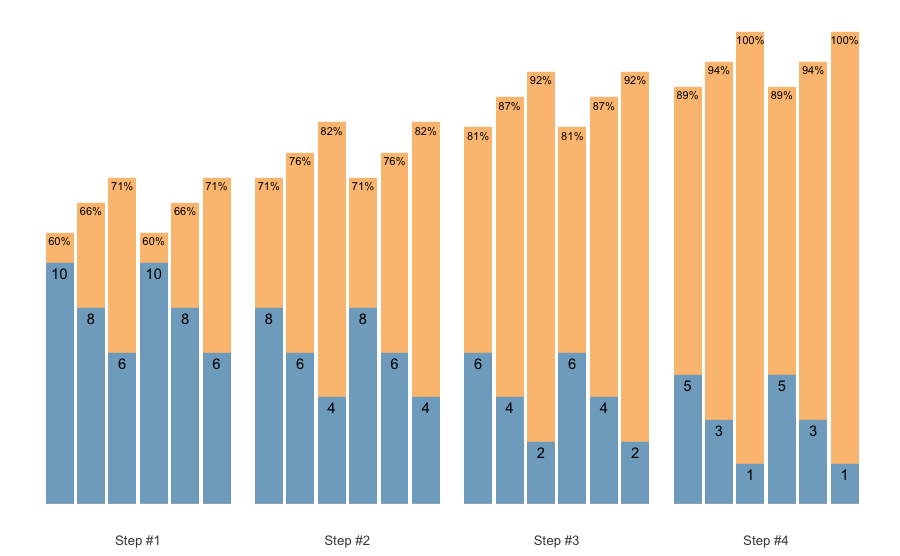
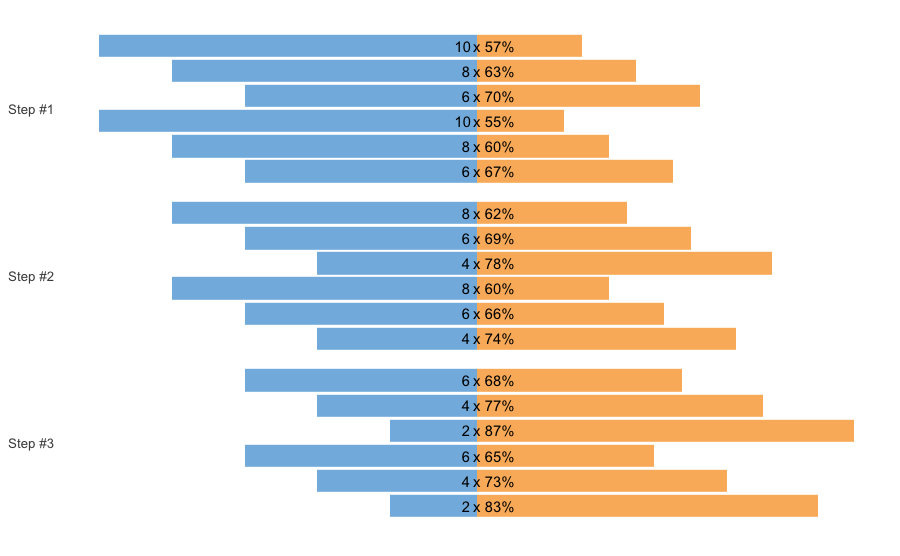
New plot types

diff --git a/README.md b/README.md
@@ -577,6 +577,20 @@ plot(scheme)
 
 <img src="man/figures/README-unnamed-chunk-24-1.png" width="80%" style="display: block; margin: auto;" />
 
+`{STMr}` implements two additional scheme visualizations:
+
+``` r
+plot(scheme, type = "vertical")
+```
+
+<img src="man/figures/README-unnamed-chunk-25-1.png" width="80%" style="display: block; margin: auto;" />
+
+``` r
+plot(scheme, type = "fraction")
+```
+
+<img src="man/figures/README-unnamed-chunk-26-1.png" width="80%" style="display: block; margin: auto;" />
+
 In the next example I will utilize different progression table and
 progression steps, as well as Linear/Brzycki’s Reps-Max model with a
 custom model parameter value:
@@ -601,7 +615,7 @@ scheme <- scheme_wave(
 plot(scheme)
 ```
 
-<img src="man/figures/README-unnamed-chunk-25-1.png" width="80%" style="display: block; margin: auto;" />
+<img src="man/figures/README-unnamed-chunk-27-1.png" width="80%" style="display: block; margin: auto;" />
 
 This scheme would be pretty impossible to do, since I am using the
 *intensive* variant of the Deducted Intensity progression, but in this
@@ -619,7 +633,7 @@ plot_progression_table(
 )
 ```
 
-<img src="man/figures/README-unnamed-chunk-26-1.png" width="80%" style="display: block; margin: auto;" />
+<img src="man/figures/README-unnamed-chunk-28-1.png" width="80%" style="display: block; margin: auto;" />
 
 ``` r
 plot_progression_table(
@@ -633,7 +647,7 @@ plot_progression_table(
 )
 ```
 
-<img src="man/figures/README-unnamed-chunk-27-1.png" width="80%" style="display: block; margin: auto;" />
+<img src="man/figures/README-unnamed-chunk-29-1.png" width="80%" style="display: block; margin: auto;" />
 
 To make the Waves Loading scheme in the above example doable, I can
 apply additional adjustments to make sets easier. Since I am using
@@ -657,7 +671,7 @@ scheme <- scheme_wave(
 plot(scheme)
 ```
 
-<img src="man/figures/README-unnamed-chunk-28-1.png" width="80%" style="display: block; margin: auto;" />
+<img src="man/figures/README-unnamed-chunk-30-1.png" width="80%" style="display: block; margin: auto;" />
 
 The `scheme_` functions afford you great flexibility in designing set
 and rep schemes. The following set and rep schemes are implemented in
@@ -762,7 +776,7 @@ scheme <- scheme_wave() %>%
 plot(scheme)
 ```
 
-<img src="man/figures/README-unnamed-chunk-33-1.png" width="80%" style="display: block; margin: auto;" />
+<img src="man/figures/README-unnamed-chunk-35-1.png" width="80%" style="display: block; margin: auto;" />
 
 By default, `.vertical_rep_accumulation.post()` function will use the
 highest progression step in the scheme.
@@ -869,7 +883,7 @@ gg_relative <- ggplot(RTF_testing, aes(x = `Real %1RM` * 100, y = nRM, color = A
 gg_absolute + gg_relative + plot_layout(widths = c(1, 1.1))
 ```
 
-<img src="man/figures/README-unnamed-chunk-36-1.png" width="80%" style="display: block; margin: auto;" />
+<img src="man/figures/README-unnamed-chunk-38-1.png" width="80%" style="display: block; margin: auto;" />
 
 Let’s use *Athlete B* from RTF testing dataset to estimate individual
 model parameter values for Epley’s, Modified Epley’s, and
@@ -1011,7 +1025,7 @@ ggplot(RTF_testing, aes(x = `Real %1RM` * 100, y = nRM)) +
   geom_line(data = pred_df, aes(x = perc_1RM * 100, y = nRM), size = 1.5, alpha = 0.8)
 ```
 
-<img src="man/figures/README-unnamed-chunk-39-1.png" width="80%" style="display: block; margin: auto;" />
+<img src="man/figures/README-unnamed-chunk-41-1.png" width="80%" style="display: block; margin: auto;" />
 
 When analyzing multiple individuals, particularly when absolute weights
 are used instead of %1RM, one needs to utilize mixed-effect approach.
@@ -1102,7 +1116,7 @@ gg <- ggplot(RTF_testing, aes(x = `Real %1RM` * 100, y = nRM)) +
 gg
 ```
 
-<img src="man/figures/README-unnamed-chunk-41-1.png" width="80%" style="display: block; margin: auto;" />
+<img src="man/figures/README-unnamed-chunk-43-1.png" width="80%" style="display: block; margin: auto;" />
 
 `{STMr}` package also implements mixed-effect models that utilize
 absolute weight values. As alluded previously, this is novel technique
@@ -1187,7 +1201,7 @@ gg <- ggplot(RTF_testing, aes(x = `Real Weight`, y = nRM)) +
 gg
 ```
 
-<img src="man/figures/README-unnamed-chunk-43-1.png" width="80%" style="display: block; margin: auto;" />
+<img src="man/figures/README-unnamed-chunk-45-1.png" width="80%" style="display: block; margin: auto;" />
 
 Mixed-effects functions implemented in `{STMr}` package allows you to
 set-up random parameters using `random=` function argument. In the
@@ -1268,7 +1282,7 @@ gg <- ggplot(RTF_testing, aes(x = `Real Weight`, y = nRM)) +
 gg
 ```
 
-<img src="man/figures/README-unnamed-chunk-45-1.png" width="80%" style="display: block; margin: auto;" />
+<img src="man/figures/README-unnamed-chunk-47-1.png" width="80%" style="display: block; margin: auto;" />
 
 In my opinion this doesn’t make much sense. If you are interested in
 estimating group or *generic* `klin` (or `k` or `kmod`) model parameter
@@ -1313,7 +1327,7 @@ gg <- ggplot(strength_training_log) +
 gg
 ```
 
-<img src="man/figures/README-unnamed-chunk-46-1.png" width="80%" style="display: block; margin: auto;" />
+<img src="man/figures/README-unnamed-chunk-48-1.png" width="80%" style="display: block; margin: auto;" />
 
 We are interested in finding both the “best” and “worst” profiles (as
 well as estimated 1RMs). To achieve this, we will utilize *quantile
@@ -1396,7 +1410,7 @@ gg +
   geom_line(data = pred_df_worst, aes(x = weight, y = nRM), linetype = "dashed")
 ```
 
-<img src="man/figures/README-unnamed-chunk-48-1.png" width="80%" style="display: block; margin: auto;" />
+<img src="man/figures/README-unnamed-chunk-50-1.png" width="80%" style="display: block; margin: auto;" />
 
 In this example we have used all 12 weeks of strength training log data
 (i.e., pooled). We can perform some type of “rolling” analysis to get
@@ -1441,7 +1455,7 @@ ggplot(rolling_weeks, aes(x = week_end)) +
   ylab("Estimated 1RM (kg)")
 ```
 
-<img src="man/figures/README-unnamed-chunk-49-1.png" width="80%" style="display: block; margin: auto;" />
+<img src="man/figures/README-unnamed-chunk-51-1.png" width="80%" style="display: block; margin: auto;" />
 
 This analysis represents novel technique and the time will tell how
 valid is it and how to interpret it correctly. But at least we have very
@@ -1465,20 +1479,19 @@ citation("STMr")
 #> 
 #> To cite 'STMr' in publications use:
 #> 
-#>   Mladen Jovanović (2022). STMr: Strength Training Manual R-Language
-#>   Functions. R package version 0.1.3.9000. url:
-#>   https://github.com/mladenjovanovic/STMr doi: 10.5281/zenodo.4155015
+#>   Mladen Jovanović (2022). {STMr}: Strength Training Manual R-Language
+#>   Functions. R package version 0.1.4. url:
+#>   https://github.com/mladenjovanovic/STMr
 #> 
 #> A BibTeX entry for LaTeX users is
 #> 
 #>   @Manual{,
 #>     title = {{STMr}: Strength Training Manual R-Language Functions},
 #>     author = {Mladen Jovanović},
-#>     note = {R package version 0.1.3.9000},
+#>     note = {R package version 0.1.4},
 #>     year = {2022},
 #>     address = {Belgrade, Serbia},
 #>     url = {https://github.com/mladenjovanovic/STMr},
-#>     doi = {10.5281/zenodo.4155015},
 #>   }
 ```
 

diff --git a/NEWS.md b/NEWS.md
@@ -18,7 +18,7 @@
 * Added `label_size` and `font_size` arguments to `plot_scheme()` and `plot_progression_table()` functions
 * Removed default progression table from `generate_progression_table()`, `create_example()`, `plot_progression_table()` functions
 * Added `plot_vertical()` function for plotting vertical plan
-* Create `STMr_scheme` class, and now scheme can be plotted by using simple S3 `plot` method. `plot_scheme()` function is now deprecated
+* Created `STMr_scheme` class, and now scheme can be plotted by using simple S3 `plot` method. `plot_scheme()` function is now deprecated. Added three types of plots: `bar`, `table`, and `olympic`
 
 # STMr 0.1.3
 
